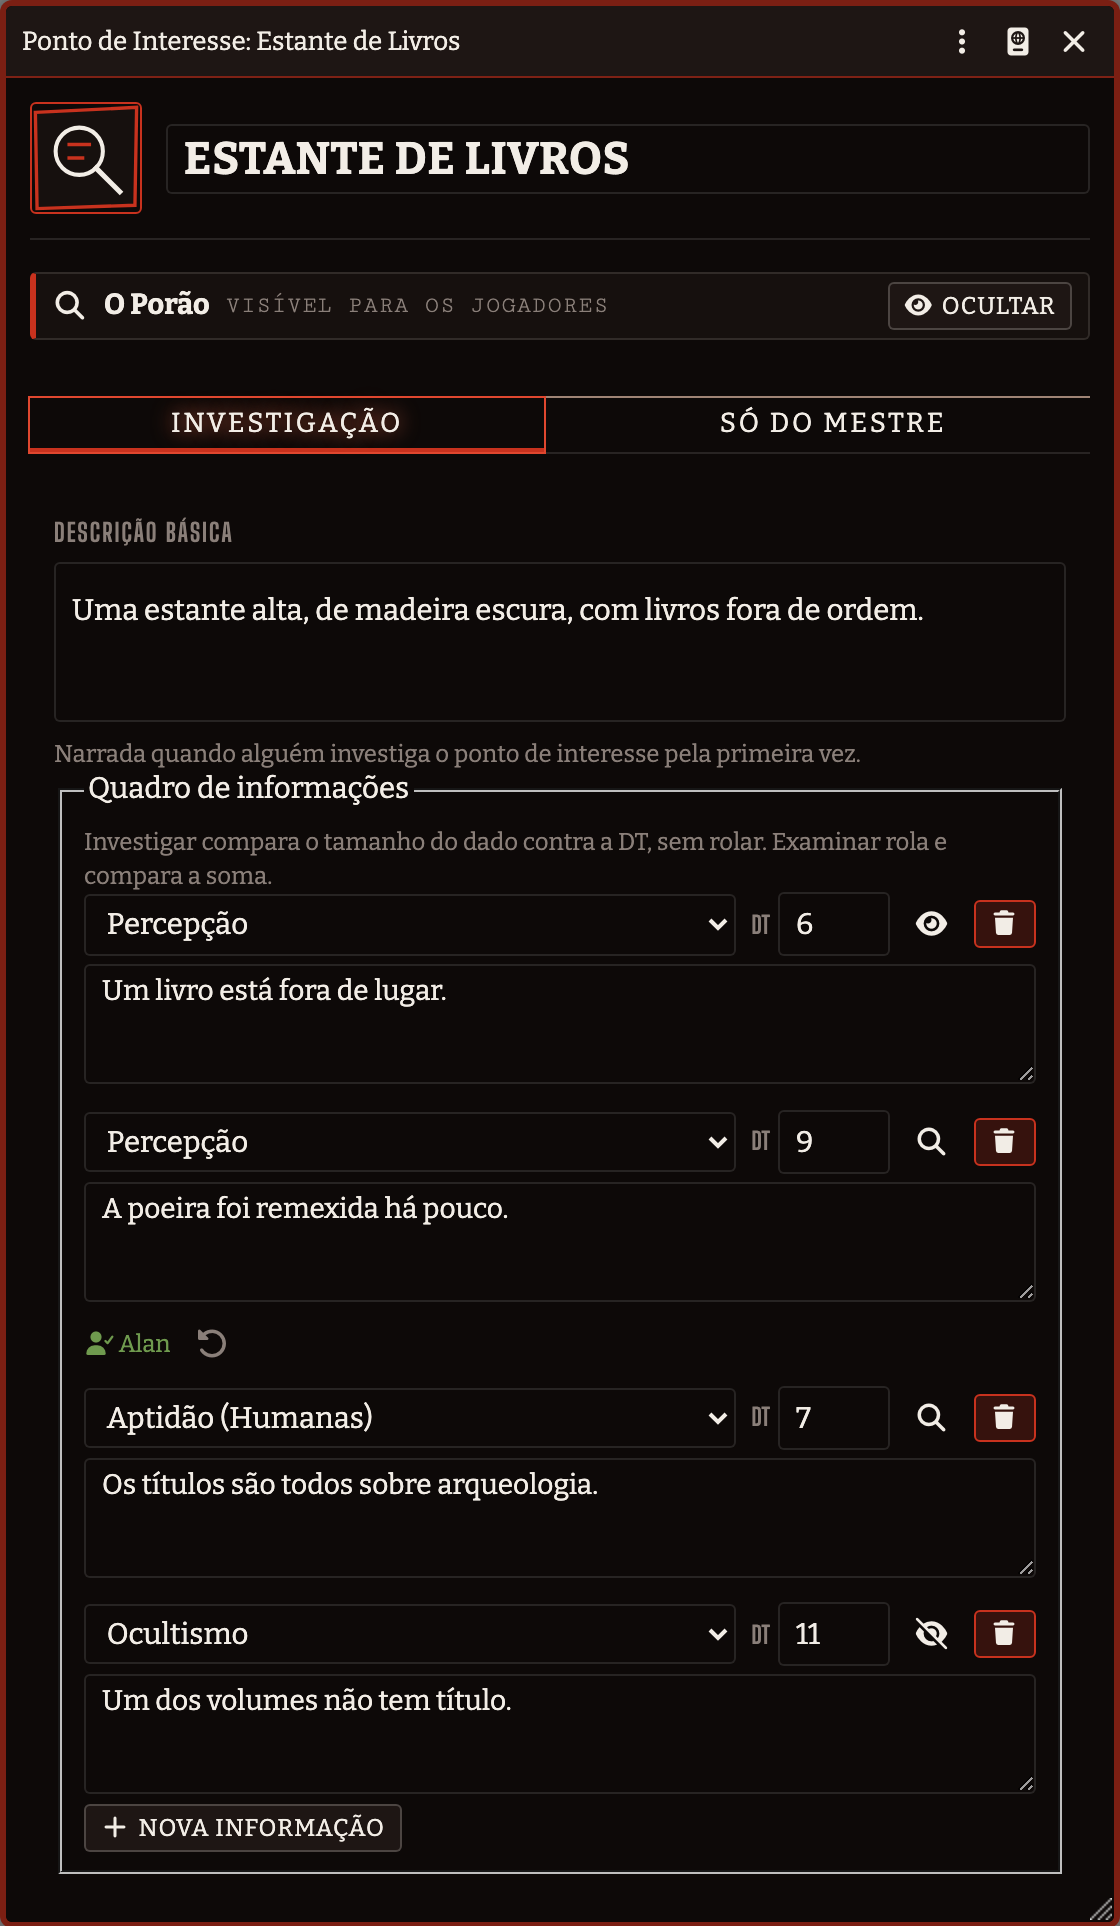
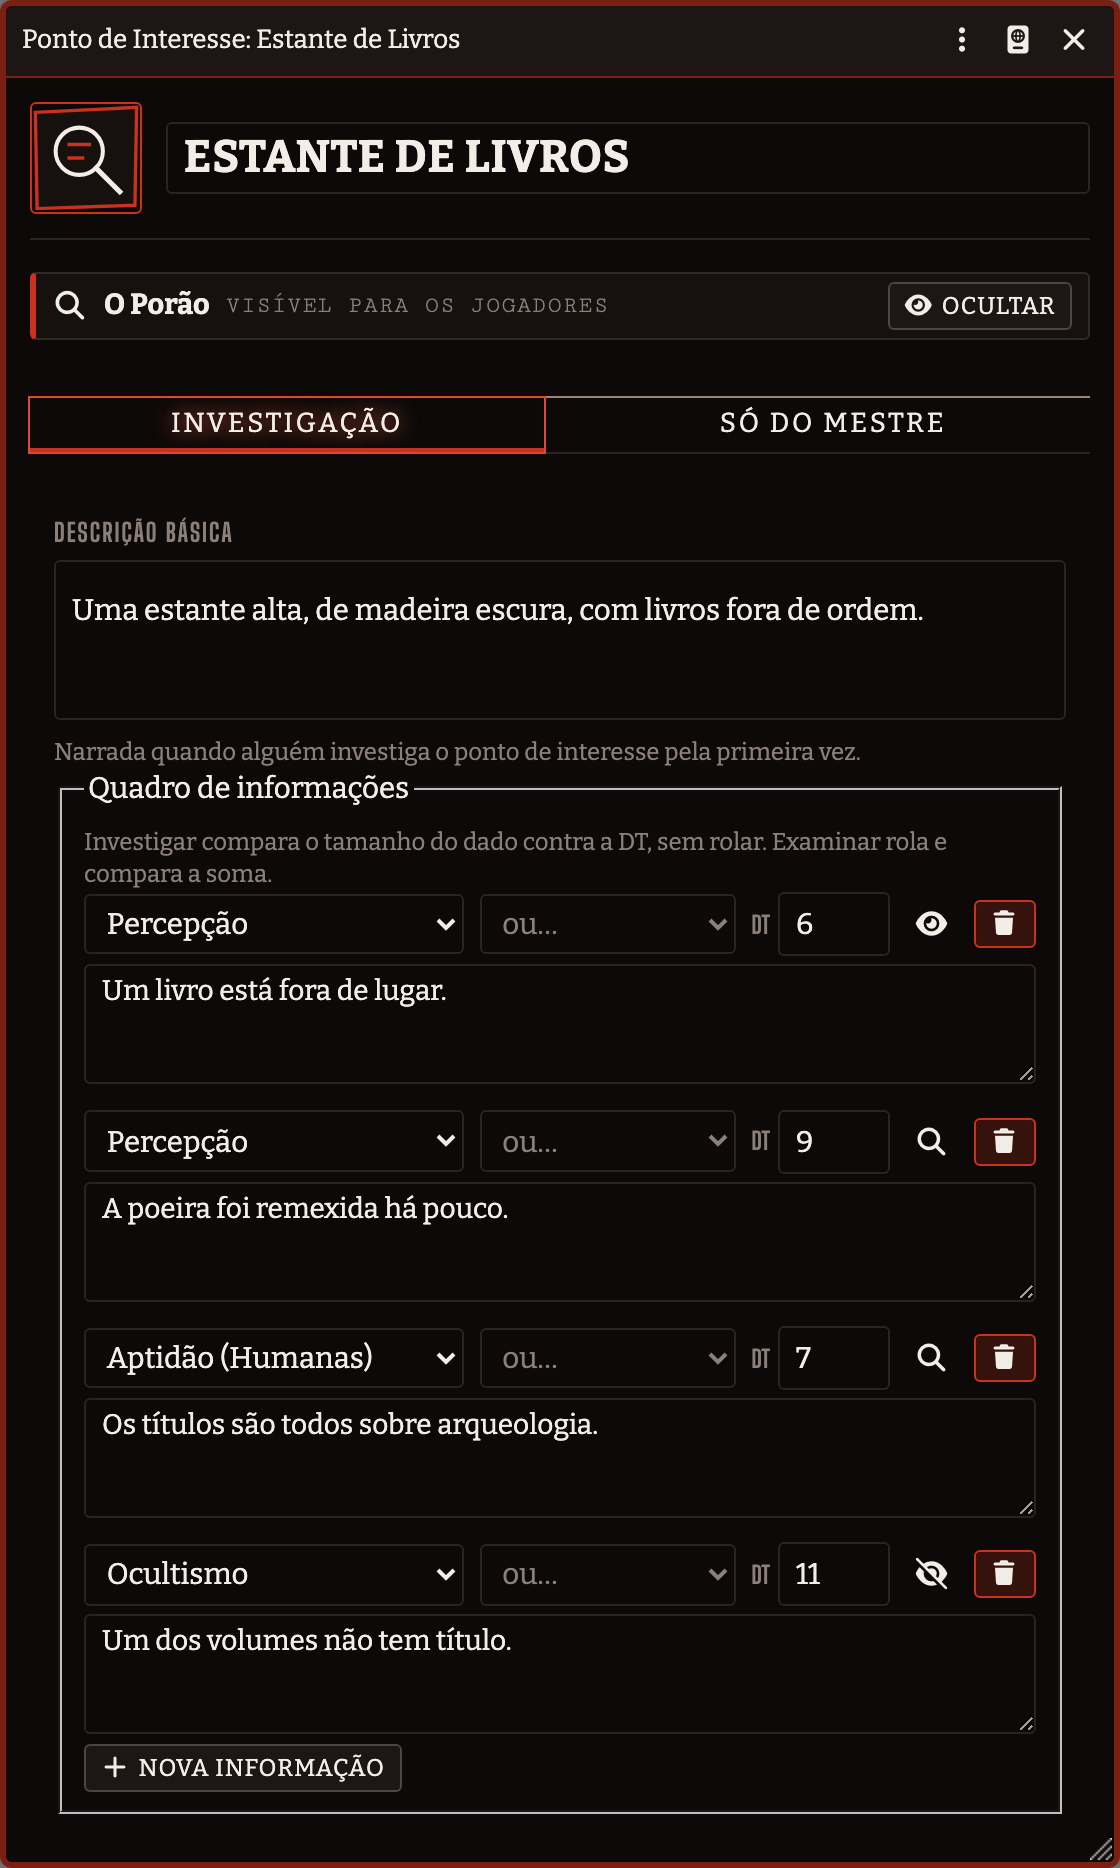
fix(investigação): linha do quadro com perícia alternativa ("Pesquisar ou Tecnologia")
A alternativa ficava só no texto da linha, e o sistema testava uma perícia por
linha: Examinar com Tecnologia no Computador do Ato I não achava nada — e cobrava
o PD. Uma mesa reportou "deu 10 mas deu falho" exatamente nesse ponto.

- `periciaAlternativa` no schema da linha; `periciasDaLinha`/`linhaAceita` em
  `investigacao.mjs`, usadas por Investigar, Examinar, motivo do custo e restantes.
- Ficha do ponto edita a alternativa num segundo seletor ("ou…").
- Painel agrupa a linha uma vez só, com as duas perícias no título; o card diz
  "Pesquisar ou Tecnologia".
- Os montadores dos dois atos preenchem o campo a partir do "ou X" que o extrator
  já lia (`separarAlternativa`), sem mudar o extrator.
- Testes offline e e2e cobrem o caso do Computador; print da ficha do ponto refeito.

diff --git a/styles/parciais/_investigacao.scss b/styles/parciais/_investigacao.scss
@@ -70,6 +70,12 @@
     gap: var(--op2-e2);
 
     select { flex: 1; }
+
+    // A alternativa é a exceção ("Pesquisar ou Tecnologia"): menor, atrás da principal.
+    select.op2-poi__alternativa {
+      flex: 0 1 8rem;
+      color: var(--op2-texto-fraco);
+    }
   }
 
   &__dt {
